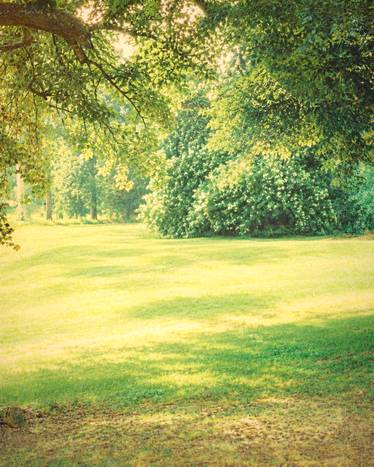
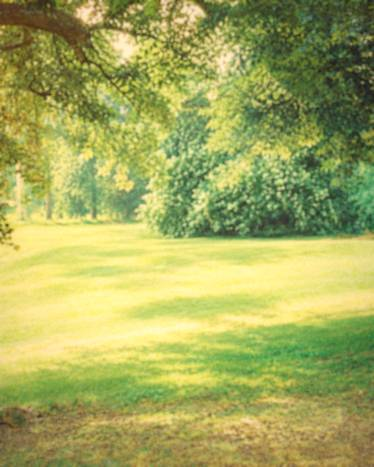
weddings-test: FreeMono, soft lens defocus, weddings placement, spirals, title drawings (#31)
Claude-Session: https://claude.ai/code/session_013j5iqo2BVtAkHMQAYc8Tvk

diff --git a/weddings-test/assets/vintage.css b/weddings-test/assets/vintage.css
@@ -28,8 +28,8 @@ body {
 b, strong { font-weight: 700; }
 
 /* ---------- Background: sharp, like a late-90s film print ---------- */
-.backdrop { background-image: url("bg-film-small.jpg"); }
-.backdrop::before { background-image: url("bg-film.jpg"); filter: none; transform: none; }
+.backdrop { background-image: url("bg-film-small.jpg?v=2"); }
+.backdrop::before { background-image: url("bg-film.jpg?v=2"); filter: none; transform: none; }
 .backdrop::after {
   background: radial-gradient(130% 100% at 50% 45%, transparent 55%, rgba(30, 20, 8, .32));
   mix-blend-mode: multiply;
@@ -353,14 +353,17 @@ input, textarea { color: var(--ink); }
 .q::before, .landing .q::before { display: none; }
 .actions, .soon { border-top: 0; }
 
-/* Micha's hand-drawn title (Katnoa & Megged), "weddings" typed under it */
-.logo-wrap { aspect-ratio: 1209 / 814; max-width: 430px; }
-.logo-sub { margin: 10px 0 0; text-align: center; font: 700 22px/1 var(--type); letter-spacing: .5em; text-indent: .5em; color: var(--brown); filter: url(#ink); direction: ltr; }
-.hero .lead { margin-top: 26px; }
+/* Micha's hand-drawn title (Katnoa & Megged), "weddings" typed under its right side */
+.logo-wrap { aspect-ratio: 1209 / 814; max-width: 430px; margin-bottom: 78px; }
+.logo-sub { position: absolute; top: 100%; right: 0; margin: 10px -.3em 0 0; font: 700 28px/1 var(--type); letter-spacing: .3em; color: var(--brown); filter: url(#ink); direction: ltr; white-space: nowrap; }
+/* the small drawings from around the title on Micha's sheet */
+.title-deco { position: absolute; left: -10.32%; top: -1.18%; width: 120.55%; max-width: none; height: auto; pointer-events: none; }
+.hero { overflow: hidden; }
+.hero .lead { margin-top: 0; }
 
 /* Corner drawings, taken from the title sheet */
 img.doodle { height: auto; opacity: .8; filter: none; }
-.doodle.d1 { width: 44px; height: auto; top: 24px; right: 26px; rotate: 0deg; }
+.doodle.d1 { width: 40px; height: auto; top: 24px; right: 26px; rotate: 0deg; }
 .doodle.d4 { width: 40px; height: auto; bottom: 24px; right: 30px; rotate: 0deg; }
 .doodle.d5 { width: 40px; height: auto; top: 24px; left: 26px; rotate: 0deg; }
 .doodle.d7 { width: 34px; height: auto; top: 24px; right: 26px; rotate: 0deg; }
@@ -368,8 +371,8 @@ img.doodle { height: auto; opacity: .8; filter: none; }
 .doodle.d8[src*="squares"] { width: 26px; }
 .doodle.d8[src*="dots-pair"] { width: 22px; }
 @media (max-width: 640px) {
-  .logo-wrap { max-width: 300px; }
-  .logo-sub { font-size: 18px; }
+  .logo-wrap { max-width: 270px; margin-bottom: 60px; }
+  .logo-sub { font-size: 21px; }
   .doodle.d1 { width: 34px; top: 14px; right: 14px; }
   .doodle.d4 { width: 30px; bottom: 14px; right: 16px; }
   .doodle.d5 { width: 30px; top: 14px; left: 14px; }
@@ -379,16 +382,10 @@ img.doodle { height: auto; opacity: .8; filter: none; }
   .doodle.d8[src*="dots-pair"] { width: 18px; }
 }
 
-/* Hebrew font options (?font=1|2|3): typewriter faces that stay readable.
-   Only Hebrew letters (plus space and basic punctuation) switch; Latin, digits and brackets stay Miriam Mono */
-@font-face { font-family: "Heb Alt 1"; src: url("fonts/freemono-hebrew.woff2") format("woff2"); font-weight: 400; unicode-range: U+0590-05FF, U+FB1D-FB4F, U+0020-0022, U+0027, U+002C, U+002E, U+003F; size-adjust: 112%; font-display: swap; }
-@font-face { font-family: "Heb Alt 1"; src: url("fonts/freemono-hebrew-bold.woff2") format("woff2"); font-weight: 700; unicode-range: U+0590-05FF, U+FB1D-FB4F, U+0020-0022, U+0027, U+002C, U+002E, U+003F; size-adjust: 112%; font-display: swap; }
-@font-face { font-family: "Heb Alt 2"; src: url("fonts/cousine-hebrew-400-normal.woff2") format("woff2"); font-weight: 400; unicode-range: U+0590-05FF, U+FB1D-FB4F; size-adjust: 104%; font-display: swap; }
-@font-face { font-family: "Heb Alt 2"; src: url("fonts/cousine-hebrew-700-normal.woff2") format("woff2"); font-weight: 700; unicode-range: U+0590-05FF, U+FB1D-FB4F; size-adjust: 104%; font-display: swap; }
-html.font-1, html.font-1 .landing { --type: "Heb Alt 1", "Miriam Mono", "Courier New", monospace; }
-html.font-2, html.font-2 .landing { --type: "Heb Alt 2", "Miriam Mono", "Courier New", monospace; }
-/* 1: FreeMono is a thin Courier-style face, so it gets a heavier ink stroke */
-html.font-1 body { -webkit-text-stroke: .45px currentColor; }
-/* 3: the current Miriam Mono, set larger, darker and heavier */
-html.font-3 body { -webkit-text-stroke: .65px currentColor; }
-html.font-3 .card p, html.font-3 .hint, html.font-3 .chips label, html.font-3 .fields input, html.font-3 .fields textarea { font-size: 1.12em; color: var(--ink); }
+/* Hebrew text: FreeMono (Courier-style typewriter, Micha's pick). Only Hebrew letters, space and basic
+   punctuation use it; Latin, digits and brackets stay Miriam Mono */
+@font-face { font-family: "FreeMono Hebrew"; src: url("fonts/freemono-hebrew.woff2") format("woff2"); font-weight: 400; unicode-range: U+0590-05FF, U+FB1D-FB4F, U+0020-0022, U+0027, U+002C, U+002E, U+003F; size-adjust: 112%; font-display: swap; }
+@font-face { font-family: "FreeMono Hebrew"; src: url("fonts/freemono-hebrew-bold.woff2") format("woff2"); font-weight: 700; unicode-range: U+0590-05FF, U+FB1D-FB4F, U+0020-0022, U+0027, U+002C, U+002E, U+003F; size-adjust: 112%; font-display: swap; }
+:root, .landing { --type: "FreeMono Hebrew", "Miriam Mono", "Courier New", monospace; }
+/* FreeMono is thin, so its ink is a little heavier */
+body { -webkit-text-stroke: .45px currentColor; }

diff --git a/weddings-test/index.html b/weddings-test/index.html
@@ -15,7 +15,7 @@
 <link rel="preload" href="assets/bg-film-small.jpg" as="image">
 <link rel="preload" href="assets/title/title.webp" as="image">
 <link rel="stylesheet" href="../weddings/assets/style.css?v=11">
-<link rel="stylesheet" href="assets/vintage.css?v=17">
+<link rel="stylesheet" href="assets/vintage.css?v=18">
 </head>
 <body class="landing">
 <div class="backdrop" aria-hidden="true"></div>
@@ -37,7 +37,7 @@
     <button class="burger" id="burger" type="button" aria-label="תפריט" aria-expanded="false" aria-controls="menu">
       <span></span><span></span><span></span>
     </button>
-    <a class="topbar-logo" href="#" data-view="home" aria-label="לעמוד הראשי"><img src="assets/logo-names.webp?v=5" width="841" height="176" alt=""></a>
+    <a class="topbar-logo" href="#" data-view="home" aria-label="לעמוד הראשי"><img src="assets/logo-names.webp?v=6" width="948" height="176" alt=""></a>
     <!-- Instagram link: set the address in assets/landing.js (INSTAGRAM_URL) -->
     <a class="topbar-insta" data-instagram href="#" target="_blank" rel="noopener" aria-label="האינסטגרם שלנו">
       <svg aria-hidden="true"><use href="#i-instagram"/></svg>
@@ -58,12 +58,13 @@
   <!-- Home -->
   <div class="view" id="page-home" data-title="Katnoa &amp; Megged Weddings">
     <section class="card hero">
-      <img class="doodle d1" src="assets/doodles/spiral.webp" alt="" aria-hidden="true">
-      <img class="doodle d4" src="assets/doodles/star-d.webp" alt="" aria-hidden="true">
+      <img class="doodle d1" src="assets/doodles/spiral-b.webp" alt="" aria-hidden="true">
+      <img class="doodle d4" src="assets/doodles/spiral-c.webp" alt="" aria-hidden="true">
       <h1 class="logo-wrap" id="logo">
         <img class="logo" src="assets/title/title.webp" width="1209" height="814" alt="Katnoa &amp; Megged Weddings">
+        <img class="title-deco" src="assets/title/deco.webp" width="1457" height="833" alt="" aria-hidden="true">
+        <span class="logo-sub" aria-hidden="true">weddings</span>
       </h1>
-      <p class="logo-sub" aria-hidden="true">weddings</p>
       <p class="lead">מביאים את <b>הסיפור שלכם</b> דרך <b>המוזיקה</b> לחתונה שלכם.</p>
       <div class="hero-actions">
         <a class="btn" href="#contact" data-view="contact">לקביעת פגישת היכרות</a>
@@ -99,7 +100,7 @@
   <!-- Gallery: photos go in assets/gallery/ and are listed in assets/landing.js (GALLERY) -->
   <div class="view" id="page-gallery" data-title="גלריה" hidden>
     <section class="card page-card">
-      <img class="doodle d7" src="assets/doodles/star-a.webp" alt="" aria-hidden="true">
+      <img class="doodle d7" src="assets/doodles/spiral.webp" alt="" aria-hidden="true">
       <img class="doodle d8" src="assets/doodles/dots-arc.webp" alt="" aria-hidden="true">
       <header class="page-head">
         <h2 class="section-title"><b>גלריה</b></h2>
@@ -112,7 +113,7 @@
 
   <div class="view" id="page-contact" data-title="קביעת פגישה" hidden>
     <section class="card page-card page-card--form">
-      <img class="doodle d7" src="assets/doodles/star-c.webp" alt="" aria-hidden="true">
+      <img class="doodle d7" src="assets/doodles/spiral-b.webp" alt="" aria-hidden="true">
       <img class="doodle d8" src="assets/doodles/squares.webp" alt="" aria-hidden="true">
       <div class="panel-body">
         <header class="page-head">
@@ -285,7 +286,7 @@
   <button class="lightbox-next" type="button" aria-label="הבא">&#8249;</button>
 </div>
 
-<script src="assets/landing.js?v=6"></script>
-<script src="assets/vintage.js?v=4"></script>
+<script src="assets/landing.js?v=7"></script>
+<script src="assets/vintage.js?v=5"></script>
 </body>
 </html>

diff --git a/weddings-test/assets/vintage.js b/weddings-test/assets/vintage.js
@@ -3,17 +3,6 @@
 (function () {
   "use strict";
 
-  // Hebrew font trial: ?font=1|2|3 (remembered), ?font=0 goes back to the current one
-  try {
-    var m = location.search.match(/[?&]font=(\d)/);
-    if (m) localStorage.setItem("heb-font", m[1]);
-    var f = localStorage.getItem("heb-font");
-    if (f && f !== "0") document.documentElement.classList.add("font-" + f);
-  } catch (e) {
-    var m2 = location.search.match(/[?&]font=([1-3])/);
-    if (m2) document.documentElement.classList.add("font-" + m2[1]);
-  }
-
   // Seeded random, so the page looks the same on every visit
   function rng(seed) {
     var s = seed % 2147483647 || 1;

diff --git a/weddings-test/feedback/index.html b/weddings-test/feedback/index.html
@@ -13,7 +13,7 @@
 <link rel="preload" href="../assets/bg-film-small.jpg" as="image">
 <link rel="preload" href="../../weddings/assets/title-feedback.webp" as="image">
 <link rel="stylesheet" href="../../weddings/assets/style.css?v=11">
-<link rel="stylesheet" href="../assets/vintage.css?v=17">
+<link rel="stylesheet" href="../assets/vintage.css?v=18">
 </head>
 <body>
 <div class="backdrop" aria-hidden="true"></div>
@@ -169,6 +169,6 @@
 </main>
 
 <script src="../../weddings/assets/feedback.js?v=2"></script>
-<script src="../assets/vintage.js?v=4"></script>
+<script src="../assets/vintage.js?v=5"></script>
 </body>
 </html>

diff --git a/weddings-test/textures.html b/weddings-test/textures.html
@@ -5,7 +5,7 @@
 <meta name="viewport" content="width=device-width, initial-scale=1">
 <title>טקסטורות לבחירה</title>
 <meta name="robots" content="noindex, nofollow">
-<link rel="stylesheet" href="assets/vintage.css?v=17">
+<link rel="stylesheet" href="assets/vintage.css?v=18">
 <style>
   body { margin: 0; padding: 28px 16px 60px; background: #7d8a4f url("assets/bg-film.jpg") center / cover fixed; }
   h1 { margin: 0 auto 6px; max-width: 1100px; padding: 14px 18px; font: 700 22px/1.3 var(--type); color: var(--ink); background: #f8f3e7; }

diff --git a/weddings-test/README.md b/weddings-test/README.md
@@ -12,4 +12,4 @@ once the design is approved it moves into `weddings/` and this folder is removed
 
 ## Title and Hebrew font trial
 - Title: Micha's drawing "Katnoa & Megged" (source PNG kept in the project files), cut into assets/title/t0..t11.webp for the shy-letters effect; "weddings" is typed text. Corner drawings in assets/doodles/ come from the same sheet.
-- Hebrew font options, switched with `?font=1|2|3` (remembered in the browser; `?font=0` goes back): 1 FreeMono (GNU FreeFont, GPL with font exception), 2 Cousine (OFL), 3 Miriam Mono set heavier. Only Hebrew letters switch; Latin, digits and brackets stay in Miriam Mono.
+- Hebrew font: FreeMono (GNU FreeFont, GPL with font exception), subset to Hebrew in assets/fonts/freemono-hebrew*.woff2. Only Hebrew letters use it; Latin, digits and brackets stay in Miriam Mono.
